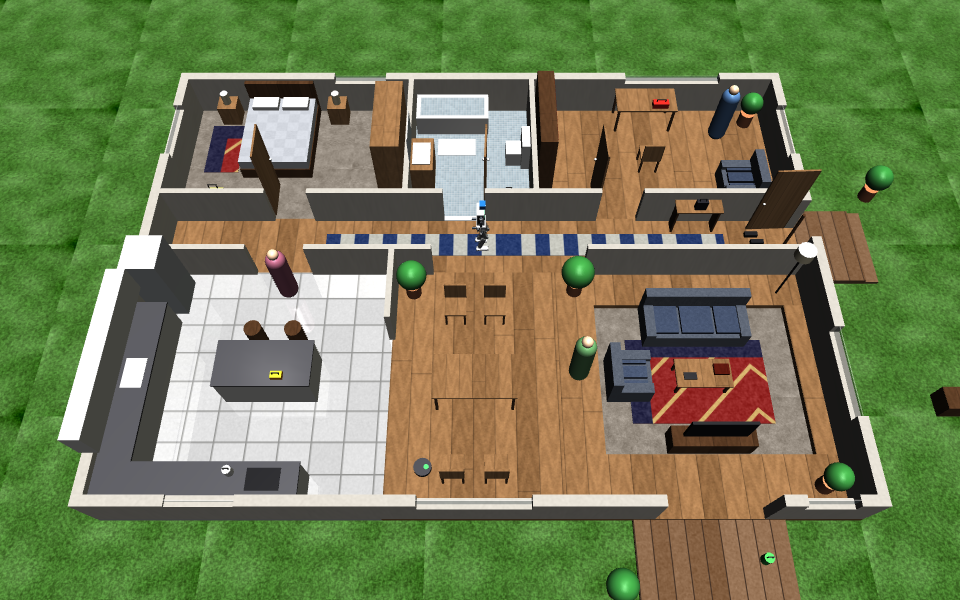
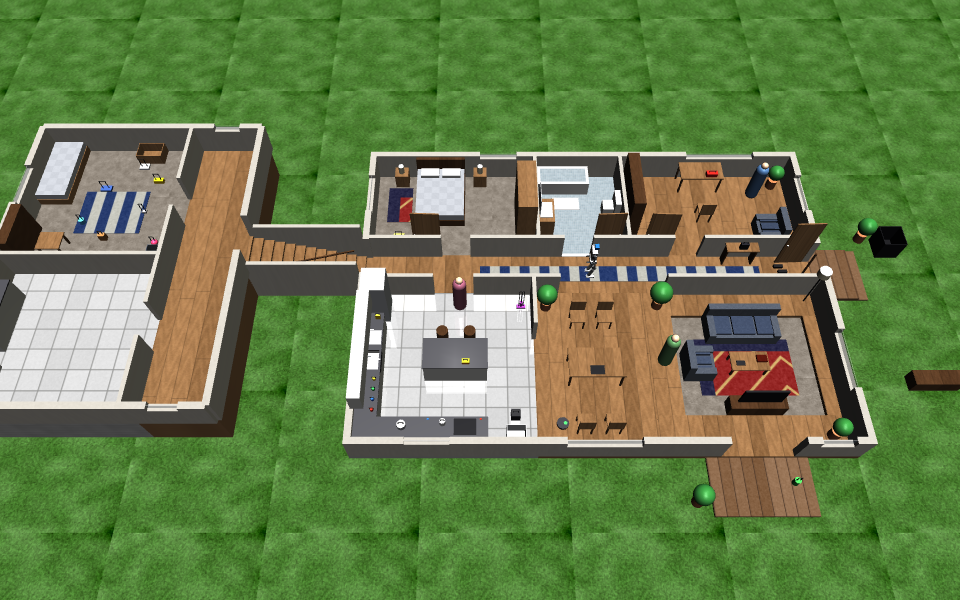
House renders for the upper wing; README: chores, Uno, stress tests, agent mode; Uno typed-card fix
'red draw two' and 'wild draw four' were read as drawing a card in live Uno.

Claude-Session: https://claude.ai/code/session_011vtn8M4hHLFwUZMmG7kshf

diff --git a/projects/kestrel-humanoid/brain/house.py b/projects/kestrel-humanoid/brain/house.py
@@ -1,27 +1,43 @@
-"""KESTREL house: a whole single-storey home in the simulator, to test the robot as hard as a real home would.
+"""KESTREL house: a whole home in the simulator, to test the robot as hard as a real home would.
 
     KESTREL_VARIANT=s1body python house.py              # renders an overview and room views to runs/house_*.png
 
-14 m x 10 m, on a raised floor slab 14 cm above the garden:
+The ground floor, 14 m x 10 m, on a raised floor slab 14 cm above the garden:
 
-* open-plan kitchen (L-shaped counters, island, fridge, stools), dining area (table, four chairs) and living room with
-  a sunken lounge one 14 cm step down (sofa, coffee table, TV, armchair, rug);
+* open-plan kitchen (L-shaped counters, island, fridge, stools) with a hob, a kettle on its base, a sink with a
+  sensor tap over a drip tray (it fills what is put under it, by the amount asked for), and a bin; dining area
+  (table with a trivet at its edge, four chairs) and living room with a sunken lounge one 14 cm step down (sofa,
+  coffee table, TV, armchair, rug);
 * a hallway with a runner rug, console table, coat stand and shoes by the front door;
 * bedroom (double bed, nightstands, wardrobe, rug), bathroom (bath, toilet, vanity, slippery tiles, a 1.5 cm door
   threshold), study (desk, desk chair, bookshelf, armchair);
 * hinged doors (bedroom, bathroom, study, front door) that swing if pushed, windows, ceilings (head camera only);
-* outside: a front porch with two 7 cm steps, a patio deck one step down from the living room, a lawn and a bench;
-* things to fetch, each with a handle on top for the S1's hook hand: kettle, lunchbox, shopping bag, laundry basket,
-  bucket, toolbox, watering can;
-* people: one standing in the study, one walking a loop through the kitchen, hall and dining area (they stop for the
-  robot), and "you", the person giving instructions; a robot vacuum wandering the kitchen and dining area.
+* outside: a front porch with two 7 cm steps, a patio deck one step down from the living room, a lawn, a bench and
+  the garden bin.
+
+Up a straight flight of 12 stairs (10 cm risers, 30 cm treads; KESTREL_RISER / KESTREL_NRISERS make them steeper),
+an upper wing: a landing, a messy kids' room (bed, toy box, clothes hamper, table, toys and clothes on the floor) and
+a laundry room with a washing machine.
+
+Things to handle, each with a handle on top for the S1's hook hand: kettle, pot, pasta, four mugs, lunchbox,
+shopping bag, laundry basket, bucket, toolbox, watering can, a stick vacuum, a rubbish bag, toys (teddy, truck,
+blocks, ball) and clothes (shirt, jeans, socks). Containers (sink, bins, toy box, hamper) keep what is dropped in.
+Touch controls on the worktop edge switch the hob, kettle, tap and washer on and off. The house keeps the state the
+chores are scored on: water in each container, kettle temperature, pasta cooking time on a hot hob, the washer's
+cycle, and 80 patches of dust that only the vacuum head picks up.
+
+People and pets: one standing in the study, one walking a loop through the kitchen, hall and dining area (they stop
+for the robot), "you", a visitor who rings at the front door and follows the robot, a dog that wanders and gets in
+the way, a spill that can appear on the floor, a card tray at the dining table for Uno, and a robot vacuum. A test
+can also push the robot, turn the lights down, or leave clutter on the stairs.
 
 Floors are real collision geometry; the walking policy's height scan reads a height map of exactly that floor (the
 same kind of input it was trained on, with stairs), so steps, rugs and thresholds are seen and stepped over. Floor
 friction differs by room (bathroom tiles 0.6, kitchen tiles 0.7, wood 0.8, carpet and rugs 1.0).
 
-The house also provides what a robot that has mapped its home would know: an occupancy grid for path planning, named
-rooms, furniture with places to stand, chairs it can sit on, and where each object belongs.
+The house also provides what a robot that has mapped its home would know: an occupancy grid per floor for path
+planning, named rooms, the flight of stairs between them, furniture with places to stand, chairs it can sit on, and
+where each object belongs.
 """
 from __future__ import annotations
 

diff --git a/projects/kestrel-humanoid/brain/live.py b/projects/kestrel-humanoid/brain/live.py
@@ -453,8 +453,8 @@ class Live:
             except queue.Empty:
                 opts = g.playable(g.turn)
                 return (opts[0], "red" if opts and opts[0].colour is None else None) if opts else (None, None)
-            if re.search(r"\bdraw\b|\bpass\b|\bpick up\b", text):
-                return None, None
+            if re.search(r"\bdraw\b|\bpass\b|\bpick up\b", text) and not re.search(r"wild|draw ?(two|2|four|4)|\+[24]", text):
+                return None, None                                   # "draw", not "red draw two" / "wild draw four"
             col = next((c for c in U.COLOURS if c in text), None)
             val = None
             if "wild" in text:

diff --git a/projects/kestrel-humanoid/brain/README.md b/projects/kestrel-humanoid/brain/README.md
@@ -177,19 +177,29 @@ python live.py              # open http://localhost:8765
 
 ![The house](runs/house_overview.png)
 
-**The house** (`house.py`): a 14 m x 10 m single-storey home on a slab 14 cm above the garden, built to test the
-robot the way a real home would:
+**The house** (`house.py`): a 14 m x 10 m home on a slab 14 cm above the garden, with an upper wing up a flight of
+stairs, built to test the robot the way a real home would:
 
-* open-plan kitchen (L-shaped counters, island, stools, fridge), dining area (table and four chairs) and living room
+* open-plan kitchen (L-shaped counters, island, stools, fridge, a hob, a kettle on its base, a sink whose sensor tap
+  fills whatever is put on its drip tray, a bin), dining area (table with a trivet, four chairs) and living room
   with a sunken lounge one 14 cm step down (sofa, coffee table, TV, armchair, rug);
 * a hall with a runner rug, a console table, a coat stand and shoes by the front door; a bedroom, a bathroom (tiles
   with friction 0.6 and a 1.5 cm door threshold) and a study;
+* up 12 stairs (10 cm risers): a landing, a messy kids' room (toys and clothes on the floor, a toy box, a hamper) and
+  a laundry room with a washing machine;
 * hinged doors that swing if bumped, windows, ceilings (seen by the head camera);
-* outside, a porch with two 7 cm steps, a patio deck one step down from the living room, and a lawn;
-* seven things to fetch, each with a handle for the hook hand (kettle, lunchbox, shopping bag, laundry basket,
-  bucket, toolbox, watering can);
-* people: Alex standing in the study, Jordan walking a loop through the kitchen, hall and dining area (Jordan stops
-  for the robot), and you; a robot vacuum wandering the kitchen and dining area.
+* outside, a porch with two 7 cm steps, a patio deck one step down from the living room, a lawn and the garden bin;
+* about 30 things to handle, each with a handle for the hook hand: kettle, pot, pasta, four mugs, a stick vacuum,
+  a rubbish bag, toys, clothes, and the original seven (lunchbox, shopping bag, laundry basket, bucket, toolbox,
+  watering can);
+* appliances with real state: touch controls switch the hob, kettle, tap and washer; the house tracks the water in
+  every container, the kettle's temperature, how long the pasta has been on a hot hob, the washer's cycle and 80
+  patches of dust that only the vacuum head picks up;
+* people and pets: Alex standing in the study, Jordan walking a loop through the kitchen, hall and dining area
+  (Jordan stops for the robot), you, a visitor who rings at the front door, and a dog that wanders into the robot's
+  way; a robot vacuum wandering the kitchen and dining area.
+
+![Up the stairs](runs/house_stairs.png)
 
 Floors are real collision geometry with friction by room. The walking policy's height scan reads a height map of
 exactly that floor, the same kind of input it learned stairs from, so it sees the steps and thresholds and steps
@@ -277,6 +287,69 @@ checked forward motion but not sideways (the line-up steps came within 0.4 m of 
 It never strikes anyone. Asked to, it refuses (`house_test.py` checks 20 harmful phrasings, all refused, and 20
 harmless ones, none refused). Told that someone is being hurt (or the red button), it stops on the spot, keeps at
 least 2 m away, warns, and raises an alert for a human. It does not intervene physically.
+
+## Chores, a card game, and a stress test
+
+![The kids' room before tidying](runs/house_kids_room.png)
+
+`chores.py` gives the robot household jobs. Each one is built from its skills (walk, climb the stairs, pick up,
+put down, drop into, press, fill, pour, push the vacuum), and the house, not the robot, decides whether it worked:
+
+| Chore | What it does | What the house checks |
+|---|---|---|
+| Make tea | fills the kettle at the tap, boils it, pours a mug, brings it to you | tea in the mug, the mug within 2.5 m of you |
+| Cook pasta | fills the pot, hob on, pasta in when it boils, cooks it, hob off, pot to the table | cooked 40 s, hob off, pot on the trivet, nothing burnt |
+| Set the table | a mug at each of four places | all four mugs standing on the table |
+| Wash up | every mug into the sink | four mugs in the sink |
+| Vacuum a room | takes the stick vacuum, covers the floor in lanes, puts it back | at least 65 % of the dust picked up by the head |
+| Tidy the kids' room | toys into the toy box, clothes into the hamper, upstairs | every toy and every piece of clothing in its box |
+| Laundry | the basket up the stairs, washing machine on, waits for the cycle | basket in the laundry room, wash finished |
+| Take out the rubbish | the bag out of the front door, down the porch steps, into the garden bin | bag in the garden bin |
+| Water the plants | fills the watering can, waters every indoor plant, refilling as needed | every indoor plant watered |
+| Greet a visitor | answers the door, leads the visitor to the living room, offers the sofa | visitor in the living room; never closer than 1.2 m to them |
+| Play Uno | sits at the dining table and plays you; reaches to the card tray to draw and to play | a full game by the rules, every reach made, stands up after |
+| Saturday | several of the above in a row | all of them |
+
+**Uno** (`uno.py`) is the full two-player game: the 108-card deck, skips, reverses, draw twos, wilds, wild draw
+fours (only when you hold nothing of the colour), drawing when stuck, saying "Uno" and being caught. The robot's
+strategy keeps the colour it holds most of, saves wilds, and hits back when you are nearly out; against a random
+player it wins 58 % of 2,000 games with no illegal plays. In live mode, "let's play Uno" sits it down at the table
+and you type your cards ("red 7", "wild blue", "draw").
+
+**The stress tests** (`house_test.py`) add trouble on top of the chores: stairs (and a steeper 12 cm flight), the dog
+walking into its path, a spill on the floor it must go around, being pushed mid-walk, the lights turned down (the
+camera sees only 2.5 m), a toy left on the stairs (it clears it or refuses to climb, never climbs over it), and the
+whole Saturday list in a row.
+
+<!-- battery results -->
+
+## Claude as the robot's mind: it sees, and it learns
+
+```bash
+python live.py --claude --agent
+```
+
+With `--agent`, what you say becomes a goal for `agent.py` instead of a fixed command. Nothing is scripted. At every
+step Claude gets two pictures, the robot's head camera and a view from behind it, plus a line of state (where it is,
+what it holds, which appliances are on). It chooses the next action from small tools: go somewhere, look around,
+pick up, put down, drop into, press a switch, fill, pour, wait, say something. Then it sees what happened.
+
+The chores above are **starter skills**, not the only way to do things. Claude can run one as it is, read its steps
+and change them, or ignore it and work something out. When its own way works, it saves the steps as a **learned
+skill**, and each skill counts how often it has worked. When something fails, it writes a **lesson** ("put the pot
+down before pressing the hob"), and every later task starts with the lessons it has. Skills, lessons and a short
+log of past tasks are kept in `data/robot_memory.json`, which is personal and gitignored, so the robot gets better
+the more you use it. This is learning by memory, not by changing a network's weights. The motion generator learns by
+practice instead (`train/motion/practice.py`).
+
+The safety supervisor still checks every step, and no tool strikes anything. "Stop", the alarm and refusals skip the
+agent and go straight to the robot.
+
+Cost and limits: every step sends two small images (480 x 360) and the conversation so far, so a chore of 20 to 40
+steps costs noticeably more than one command in `--claude` mode. Plain commands still work if the API is
+unreachable. It has been tested here with a stand-in for the API that plays the role of Claude (it saw both images
+at every step, moved the mug, saved a skill and a lesson). It has not been run against the real API in this
+environment, which has no key.
 
 ### Run it on your own computer
 
